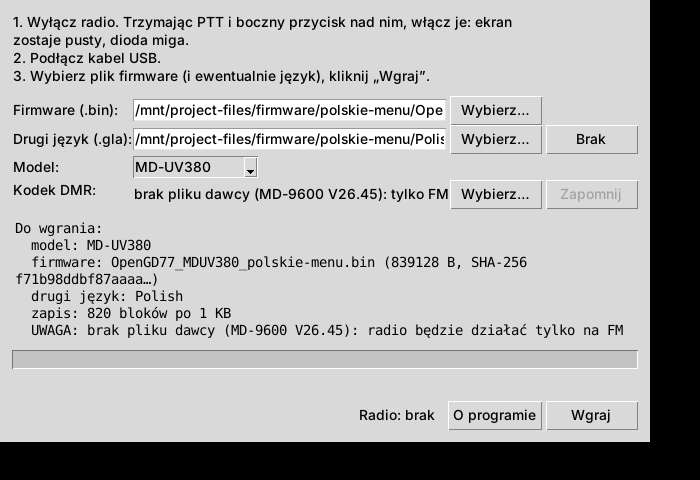
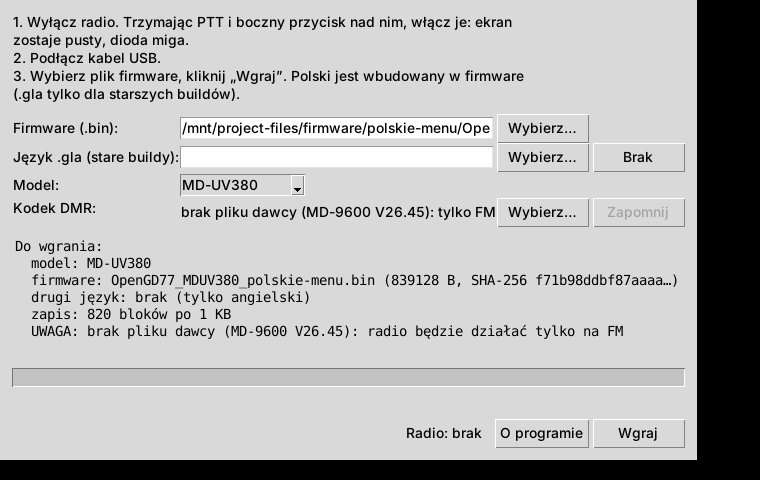
rt3s-flasher: polski wbudowany w firmware, .gla tylko dla starszych buildów
Program rozpoznaje drugi język wbudowany w firmware (tabela inna niż pusta „User” w wersji 0,
np. „Polski” z PR #3) i wtedy pomija plik .gla, który by go nadpisał. Okno nie podpowiada już
Polish.gla; opcja -j zostaje dla starszych buildów. Instrukcja i testy zaktualizowane.

Claude-Session: https://claude.ai/code/session_0122VieRVqjGCGrnoqUSfpZh

Changed region(s): [[0.0, 0.0, 0.93, 0.9688], [0.81, 0.2812, 0.87, 0.3438]]

diff --git a/tools/rt3s-flasher/rt3s_flasher/core.py b/tools/rt3s-flasher/rt3s_flasher/core.py
@@ -68,6 +68,25 @@ def _english_table(fw):
     return -1
 
 
+def _table_name(fw, at):
+    return bytes(fw[at + 12:at + 12 + 16]).split(b'\0')[0].decode('latin-1')
+
+
+def builtin_languages(fw):
+    """Języki wbudowane w firmware: ['English'] dla zwykłego buildu OpenGD77 (drugie miejsce to
+    pusta tabela „User” w wersji 0, wypełniana z .gla), ['English', 'Polski'] dla buildu z polskim
+    wbudowanym (fork M0SQQ). None: nie znaleziono tabel językowych."""
+    fw = bytes(fw)
+    found = _english_table(fw)
+    if found <= 0:
+        return None
+    names = ['English']
+    slot = fw.find(b'GD77LANG', found + 12)
+    if slot > 0 and not (_table_name(fw, slot) == 'User' and _be32(fw, slot + 8) == 0):
+        names.append(_table_name(fw, slot))
+    return names
+
+
 def firmware_language_version(fw):
     """Wersja tabeli językowej, której oczekuje firmware (z tabeli angielskiej)."""
     found = _english_table(bytes(fw))
@@ -77,10 +96,14 @@ def firmware_language_version(fw):
 def merge_language(fw, gla):
     """Kopiuje .gla na miejsce drugiego języka w firmware (fw: bytearray, zmieniany w miejscu).
 
-    Zwraca 'merged', 'ignored' (firmware bez języków, np. JA), 'mismatch', 'badfile' lub 'noslot'.
+    Zwraca 'merged', 'ignored' (firmware bez języków, np. JA), 'builtin' (drugi język jest już
+    wbudowany, np. polski w forku M0SQQ: .gla by go nadpisał), 'mismatch', 'badfile' lub 'noslot'.
     """
     if fw.find(b'IGNRLANG') >= 0:
         return 'ignored'
+    builtin = builtin_languages(fw)
+    if builtin and len(builtin) > 1:
+        return 'builtin'
     lang_version = language_version(gla)
     if lang_version is None:
         return 'badfile'

diff --git a/tools/rt3s-flasher/rt3s_flasher/gui.py b/tools/rt3s-flasher/rt3s_flasher/gui.py
@@ -9,7 +9,7 @@ from . import CREDITS, __version__, core, dfu, job, settings
 
 HOWTO = ('1. Wyłącz radio. Trzymając PTT i boczny przycisk nad nim, włącz je: ekran zostaje pusty, dioda miga.\n'
          '2. Podłącz kabel USB.\n'
-         '3. Wybierz plik firmware (i ewentualnie język), kliknij „Wgraj”.')
+         '3. Wybierz plik firmware, kliknij „Wgraj”. Polski jest wbudowany w firmware (.gla tylko dla starszych buildów).')
 
 
 class App:
@@ -34,7 +34,7 @@ class App:
         self.model = tk.StringVar(value=core.DEFAULT_PLATFORM)
 
         self._file_row(main, 1, 'Firmware (.bin):', self.firmware, self.pick_firmware)
-        self._file_row(main, 2, 'Drugi język (.gla):', self.lang, self.pick_lang, clear=True)
+        self._file_row(main, 2, 'Język .gla (stare buildy):', self.lang, self.pick_lang, clear=True)
 
         ttk.Label(main, text='Model:').grid(row=3, column=0, sticky='w')
         ttk.Combobox(main, textvariable=self.model, values=list(core.PLATFORMS), state='readonly',
@@ -91,10 +91,6 @@ class App:
         p = filedialog.askopenfilename(title='Firmware OpenGD77', filetypes=[('Firmware', '*.bin'), ('Wszystkie', '*')])
         if p:
             self.firmware.set(p)
-            if not self.lang.get():
-                guess = Path(p).with_name('Polish.gla')
-                if guess.is_file():
-                    self.lang.set(str(guess))
 
     def pick_lang(self):
         p = filedialog.askopenfilename(title='Paczka językowa', filetypes=[('Język OpenGD77', '*.gla'), ('Wszystkie', '*')])

diff --git a/tools/rt3s-flasher/rt3s_flasher/cli.py b/tools/rt3s-flasher/rt3s_flasher/cli.py
@@ -9,7 +9,7 @@ from . import CREDITS, __version__, core, dfu, job, settings
 EPILOG = '''przykłady:
   rt3s-flasher                                  okno programu
   rt3s-flasher donor PLIK_MD9600_V26.45.bin     zapamiętaj dawcę kodeka (raz)
-  rt3s-flasher flash OpenGD77_MDUV380.bin -j Polish.gla
+  rt3s-flasher flash OpenGD77_MDUV380.bin              wgraj (polski jest wbudowany)
   rt3s-flasher flash OpenGD77_MDUV380.bin --dry-run   bez radia: tylko sprawdzenie plików
   rt3s-flasher list                             czy radio jest widoczne
 
@@ -121,7 +121,7 @@ def build_parser():
 
     f = sub.add_parser('flash', help='wgraj firmware do radia')
     f.add_argument('firmware', help='plik firmware .bin (OpenGD77_MDUV380*.bin)')
-    f.add_argument('-j', '--lang', metavar='PLIK.gla', help='drugi język, np. Polish.gla')
+    f.add_argument('-j', '--lang', metavar='PLIK.gla', help='tylko starsze buildy bez wbudowanego polskiego: drugi język z pliku .gla')
     f.add_argument('-d', '--donor', metavar='PLIK', help='dawca kodeka (domyślnie zapamiętany plik)')
     f.add_argument('--no-dmr', action='store_true', help='bez kodeka AMBE (tylko FM)')
     f.add_argument('-m', '--model', default=core.DEFAULT_PLATFORM, choices=list(core.PLATFORMS),

diff --git a/tools/rt3s-flasher/rt3s_flasher/job.py b/tools/rt3s-flasher/rt3s_flasher/job.py
@@ -19,6 +19,7 @@ LANG_MESSAGES = {
     'ignored': 'firmware nie ma tabel językowych (IGNRLANG), plik .gla pominięty',
     'badfile': 'to nie jest plik języka .gla (brak nagłówka GD77LANG), pominięty',
     'noslot': 'w firmware nie ma miejsca na drugi język, plik .gla pominięty',
+    'builtin': 'firmware ma już wbudowany drugi język, plik .gla pominięty (nadpisałby go)',
 }
 
 
@@ -45,8 +46,12 @@ def prepare(firmware, language=None, donor=None, donor_data=None, platform=core.
     p.info.append(f'model: {platform}')
     p.info.append(f'firmware: {firmware.name} ({len(fw)} B, SHA-256 {core.sha256_hex(fw)[:16]}…)')
     fw_lang = core.firmware_language_version(fw)
+    builtin = core.builtin_languages(fw)
+    if builtin and len(builtin) > 1:
+        p.info.append(f'języki wbudowane: {", ".join(builtin)} (plik .gla niepotrzebny)')
     if gla is None:
-        p.info.append('drugi język: brak (tylko angielski)')
+        if not (builtin and len(builtin) > 1):
+            p.info.append('drugi język: brak (tylko angielski)')
     elif image.language == 'merged':
         p.info.append(f'drugi język: {Path(language).stem}')
     elif image.language == 'mismatch':

diff --git a/tools/rt3s-flasher/tests/helpers.py b/tools/rt3s-flasher/tests/helpers.py
@@ -20,11 +20,17 @@ def rnd(n, seed):
     return random.Random(seed).randbytes(n)
 
 
-def firmware(size=core.CODEC_TARGET + core.CODEC_LENGTH + 0x3000, lang_version=LANG_VERSION, seed=1):
+def firmware(size=core.CODEC_TARGET + core.CODEC_LENGTH + 0x3000, lang_version=LANG_VERSION, seed=1, builtin=None):
+    """builtin=None: zwykły build (drugie miejsce = pusta tabela „User” w wersji 0);
+    builtin='Polski': build z wbudowanym polskim (fork M0SQQ)."""
     fw = bytearray(rnd(size, seed))
     # Pierwsza tabela (angielska) i miejsce na drugi język, jak w buildzie OpenGD77
     fw[ENGLISH_AT:ENGLISH_AT + 19] = b'GD77LANG' + lang_version.to_bytes(4, 'big') + b'English'
-    fw[SLOT_AT:SLOT_AT + 19] = b'GD77LANG' + lang_version.to_bytes(4, 'big') + b'English'
+    if builtin:
+        slot = b'GD77LANG' + lang_version.to_bytes(4, 'big') + builtin.encode() + b'\0'
+    else:
+        slot = b'GD77LANG' + bytes(4) + b'User\0'
+    fw[SLOT_AT:SLOT_AT + len(slot)] = slot
     # Losowe dane nie mogą przypadkiem zawierać znaczników
     for tag in (b'IGNRLANG',):
         assert fw.find(tag) < 0

diff --git a/tools/rt3s-flasher/tests/test_cli.py b/tools/rt3s-flasher/tests/test_cli.py
@@ -40,6 +40,17 @@ class CliTest(unittest.TestCase):
         self.assertIn('tylko na FM', out)
         self.assertIn('nic nie zostało wysłane', out)
 
+    def test_builtin_polish_skips_gla(self):
+        fw = self.dir / 'OpenGD77_MDUV380_PL.bin'
+        fw.write_bytes(helpers.firmware(builtin='Polski'))
+        code, out = self.run_cli('flash', str(fw), '-n')
+        self.assertEqual(code, 0, out)
+        self.assertIn('języki wbudowane: English, Polski', out)
+        self.assertNotIn('tylko angielski', out)
+        code, out = self.run_cli('flash', str(fw), '-j', str(self.gla), '-n')
+        self.assertEqual(code, 0, out)
+        self.assertIn('nadpisałby', out)
+
     def test_save_image(self):
         out_img = self.dir / 'img.bin'
         code, out = self.run_cli('flash', str(self.fw), '-n', '--save-image', str(out_img))

diff --git a/tools/rt3s-flasher/tests/test_core.py b/tools/rt3s-flasher/tests/test_core.py
@@ -121,6 +121,16 @@ class ImageTest(unittest.TestCase):
         fw[0x100:0x108] = b'IGNRLANG'
         self.assertEqual(core.build_image(bytes(fw), language=helpers.language()).language, 'ignored')
 
+    def test_builtin_language_is_not_overwritten(self):
+        fw = helpers.firmware(builtin='Polski')
+        self.assertEqual(core.builtin_languages(fw), ['English', 'Polski'])
+        img = core.build_image(fw, language=helpers.language())
+        self.assertEqual(img.language, 'builtin')
+        self.assertEqual(core.encrypt(img.data, 'MD-UV380'), fw)
+
+    def test_plain_build_has_empty_user_slot(self):
+        self.assertEqual(core.builtin_languages(helpers.firmware()), ['English'])
+
     def test_bad_language_file(self):
         self.assertEqual(core.build_image(helpers.firmware(), language=b'x' * 100).language, 'badfile')
 

diff --git a/tools/rt3s-flasher/README.md b/tools/rt3s-flasher/README.md
@@ -8,7 +8,7 @@ Natywny program (okno + wiersz poleceń) do wgrywania firmware OpenGD77 / SP7TQ 
 `web/js`) i loader OpenGD77 (`MDUV380_firmware/tools/opengd77_stm32_firmware_loader.py`),
 ale bez przeglądarki i z komunikatami po polsku:
 
-- wkleja drugi język (`Polish.gla`) z kontrolą wersji tabeli językowej,
+- rozpoznaje języki wbudowane w firmware; plik `.gla` dokleja tylko do starszych buildów (zob. niżej),
 - wkleja kodek AMBE z oryginalnego firmware **MD-9600 V26.45** (plik dawcy, sprawdzany sumą SHA-256),
 - szyfruje obraz i zapisuje go przez DFU do bootloadera radia (`0483:df11`, „Digital Radio in USB mode”).
 
@@ -67,14 +67,14 @@ Bez instalacji (z katalogu `tools/rt3s-flasher`, gdy pyusb jest w systemie): `py
 Tryb aktualizacji: wyłącz radio, trzymając **PTT i boczny przycisk nad nim** włącz je. Ekran
 zostaje pusty, dioda miga. Podłącz kabel USB.
 
-Okno: `rt3s-flasher` (albo „RT3S flasher” w menu). Wybierz firmware `.bin`, ewentualnie
-`Polish.gla`, kliknij **Wgraj**. Program pokazuje przed zapisem, co wgra (język, DMR tak/nie).
+Okno: `rt3s-flasher` (albo „RT3S flasher” w menu). Wybierz firmware `.bin`, kliknij **Wgraj**.
+Program pokazuje przed zapisem, co wgra (języki, DMR tak/nie).
 
 Wiersz poleceń:
 
 ```
 rt3s-flasher list                                        # czy radio jest widoczne
-rt3s-flasher flash OpenGD77_MDUV380.bin -j Polish.gla    # wgranie (pyta o potwierdzenie)
+rt3s-flasher flash OpenGD77_MDUV380.bin                  # wgranie (pyta o potwierdzenie)
 rt3s-flasher flash OpenGD77_MDUV380.bin -n               # próba bez radia: tylko sprawdzenie plików
 rt3s-flasher flash OpenGD77_MDUV380.bin --save-image obraz.bin -n   # zaszyfrowany obraz do porównań
 rt3s-flasher donor                                       # pokaż plik dawcy
@@ -83,6 +83,16 @@ rt3s-flasher donor --forget                              # usuń zapamiętaną k
 
 Opcje `flash`: `-m MODEL` (domyślnie `MD-UV380` = RT3S; także `MD-2017`, `DM-1701` = RT-84,
 `MD-380`, `MD-9600`), `-d PLIK` (inny plik dawcy), `--no-dmr`, `-y` (bez pytania).
+
+## Języki
+
+W tym forku (Greg M0SQQ) angielski i polski są **wbudowane w firmware**, paczka `.gla` nie jest
+potrzebna: język wybiera się w radiu (*Opcje → Język*). Program rozpoznaje to po tabeli
+językowej i wtedy **pomija plik `.gla`** (zwykły build OpenGD77 ma w tym miejscu pustą tabelę
+„User”, którą `.gla` wypełnia; tu `.gla` nadpisałby wbudowany polski).
+
+Opcja `-j PLIK.gla` (w oknie: „Język .gla (stare buildy)”) zostaje tylko dla starszych buildów
+bez wbudowanego polskiego, z kontrolą wersji tabeli językowej.
 
 ## Gdy coś nie działa
 
@@ -93,7 +103,8 @@ Opcje `flash`: `-m MODEL` (domyślnie `MD-UV380` = RT3S; także `MD-2017`, `DM-1
 | Radio jest zajęte przez inny program | Zamknij CPS, kartę przeglądarki z flasherem WebUSB, inny loader. |
 | Brak biblioteki libusb-1.0 | Zainstaluj pakiet z listy wyżej. |
 | Radio przerwało zapis | Wyłącz radio, wejdź jeszcze raz w tryb aktualizacji, wgraj ponownie. |
-| Paczka językowa nie pasuje | Plik `.gla` musi pochodzić z tego samego wydania co firmware. |
+| Paczka językowa nie pasuje | Dotyczy tylko starszych buildów: plik `.gla` musi pochodzić z tego samego wydania co firmware. |
+| Plik .gla pominięty (nadpisałby go) | Firmware ma wbudowany polski, plik `.gla` jest zbędny. |
 
 ## Jak to działa
 
